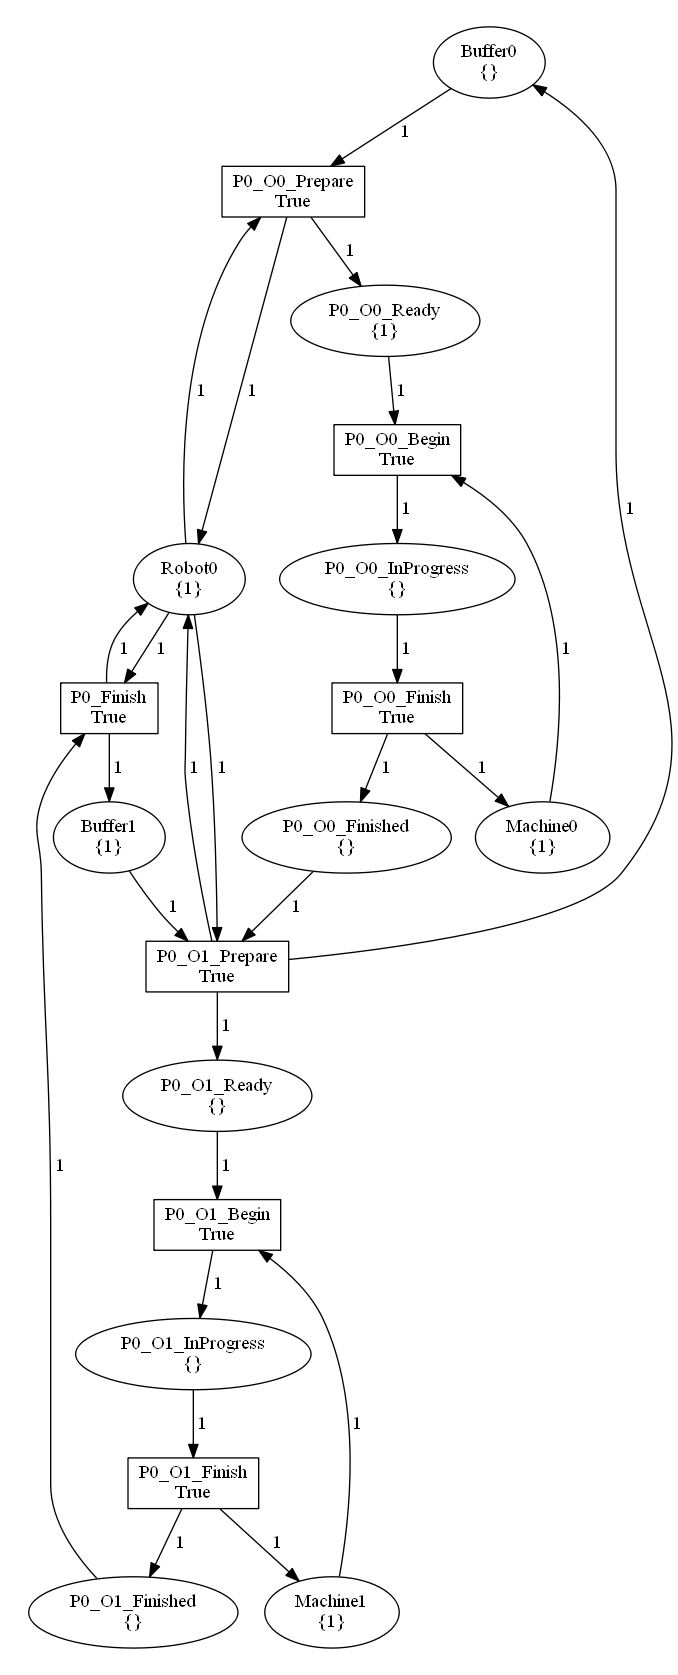
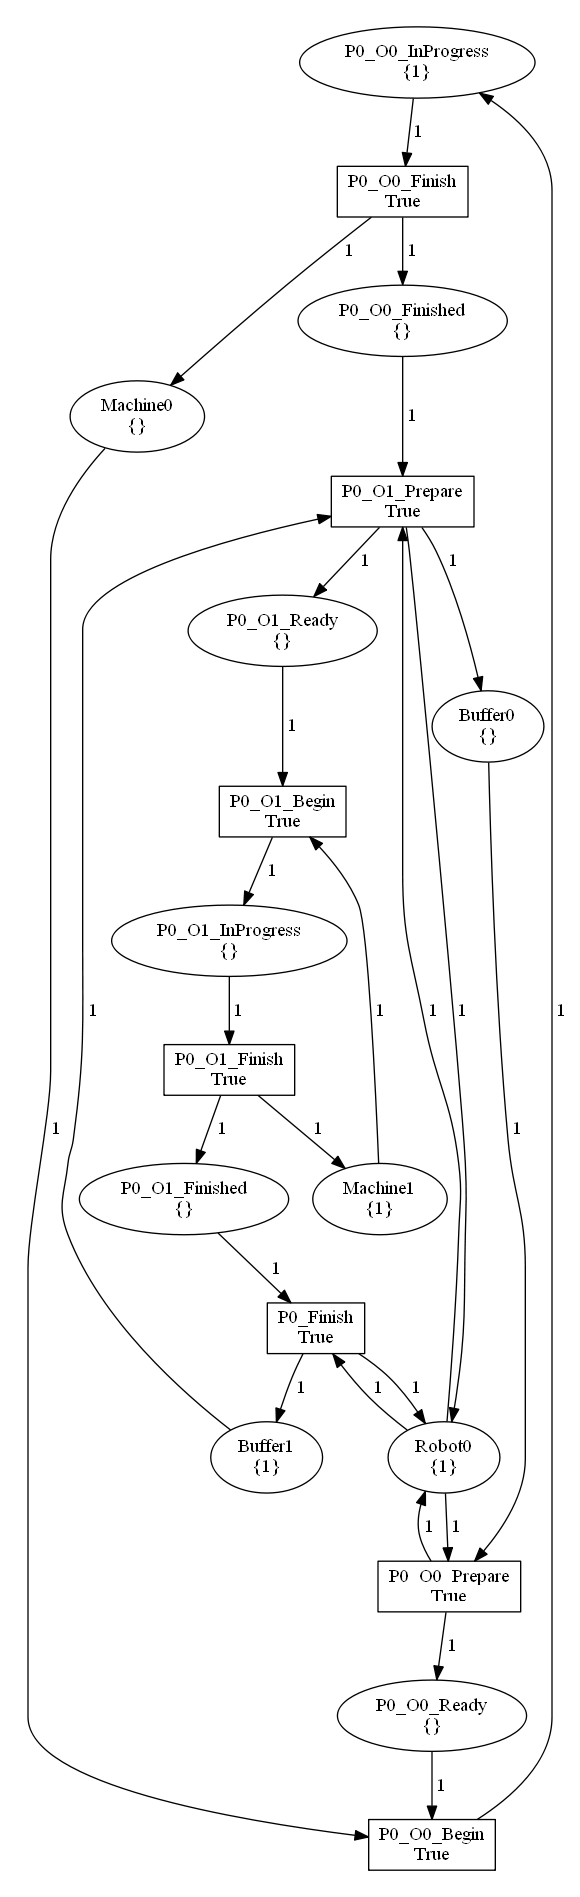
Added timed inProgress, not tested

diff --git a/RAS_AssemblyLine/PT_Simulator.py b/RAS_AssemblyLine/PT_Simulator.py
@@ -1,3 +1,4 @@
+import time
 import snakes.plugins
 snakes.plugins.load('gv', 'snakes.nets', 'nets')
 from nets import *
@@ -8,11 +9,17 @@ class PT_Simulator(object):
         self.net = PetriNet('MultiProcessAssemblyLine')
         self.TransitionFired = 0
         self.TransitionDisabled = 1
+        self.ProcessOperations = []
+        self.OperationDuration = []
+        self.ProgressTimers = []
 
-    def buildLinePTModel(self, BufferCapacity, ProcessOperations):
+    def buildLinePTModel(self, BufferCapacity, ProcessOperations, OperationDuration):
         numberOfRobots = 1
         numberOfMachines = len(BufferCapacity)
         numberOfProcesses = len(ProcessOperations)
+        self.ProcessOperations = ProcessOperations
+        self.OperationDuration = OperationDuration
+        self.ProgressTimers = [[0] * len(ProcessOperations[0])] * len(ProcessOperations)
         net = self.net
         for i in range(0, numberOfRobots):
             net.add_place(Place('Robot'+str(i), [1]))
@@ -59,12 +66,23 @@ class PT_Simulator(object):
         net = self.net
         if(len(net.transition(transitionName).modes()) > 0):
             net.transition(transitionName).fire(Substitution())
+            if( "Begin" in transitionName):
+                placeName = transitionName.replace("Begin","InProgress")
+                net.place(placeName).remove(1)
+                ProgressTimers[int(placeName[1])][int(placeName[4])] = time.time()
             return self.TransitionFired
         else:
             return self.TransitionDisabled
             
     def enabledTransitions(self):
         EnabledTransitions = []
+        for i in range(0,len(self.ProgressTimers)):
+            for j in range(0,len(self.ProgressTimers[i])):
+                currentTime = time.time()
+                if(currentTime - self.ProgressTimers[i][j] >= self.OperationDuration[i][j]):
+                    placeName = 'P'+str(i)+'_O'+str(j)+'_inProgress'
+                    self.net.place(placeName).add(1)
+
         for transition in self.net.transition():
             if(len(transition.modes()) > 0):
                 EnabledTransitions.extend([transition])

diff --git a/RAS_AssemblyLine/MultiProcessLineParametrised.py b/RAS_AssemblyLine/MultiProcessLineParametrised.py
@@ -7,8 +7,10 @@ if __name__ == "__main__":
     LineSimulator = PT_Simulator()
     BufferCapacity = [1,1]
     ProcessOperations = [[0, 1]]
-    PTnet = LineSimulator.buildLinePTModel(BufferCapacity,ProcessOperations)
+    OperationDuration = [[10, 20]]
+    PTnet = LineSimulator.buildLinePTModel(BufferCapacity,ProcessOperations, OperationDuration)
     print(LineSimulator.enabledTransitions())
+    LineSimulator.fireTransition(LineSimulator.enabledTransitions()[0].name)
     LineSimulator.fireTransition(LineSimulator.enabledTransitions()[0].name)
     print(LineSimulator.enabledTransitions())
     PTnet.draw('OneProcessLineParametrised.png')
